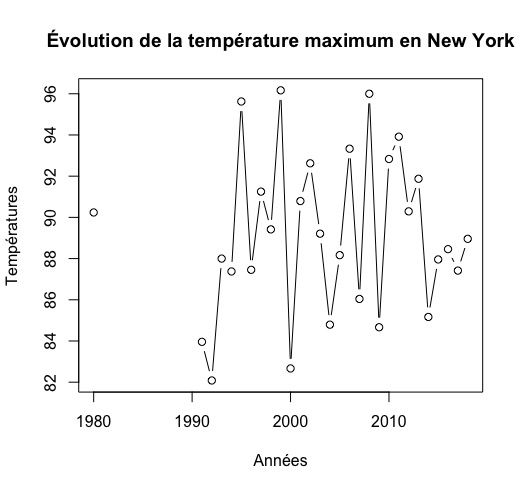
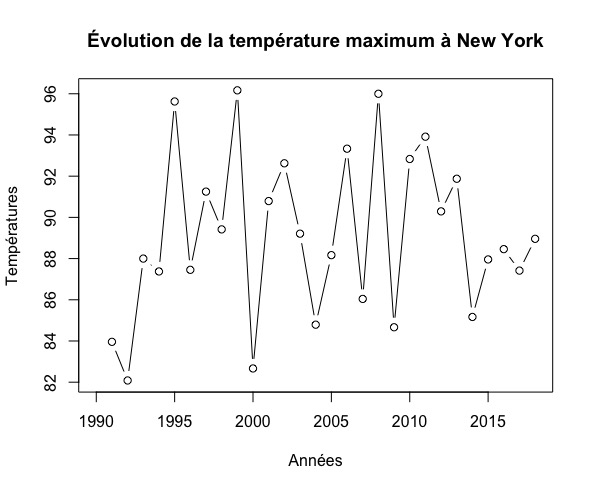
Description Max.html + nouveau Graph

diff --git a/REP/pages/max.html b/REP/pages/max.html
@@ -110,9 +110,9 @@
                     <div class="project-info overflow">
                         <h3>Description</h3>
                         <p>
-                          Lorem Ipsum is simply dummy text of the printing and typesetting industry. Lorem Ipsum has been the industry's standard dummy text ever since the 1500s,
-                          when an unknown printer took a galley of type and scrambled it to make a type specimen book. It has survived not only five centuries, but also the leap
-                          into electronic typesetting, remaining essentially unchanged.
+                          Ici se trouve un graphique montrant l'évolution des températures maximal dans l'État de la californie.
+                          On voit nettement une croissance autour des années 1985 suivies d'une stabilisation. On peut constater une augmentation
+                          de la température maximale dans cet État.
                          </p>
                     </div>
 
@@ -137,9 +137,8 @@
                     <div class="project-info overflow">
                         <h3>Description</h3>
                         <p>
-                          Lorem Ipsum is simply dummy text of the printing and typesetting industry. Lorem Ipsum has been the industry's standard dummy text ever since the 1500s,
-                          when an unknown printer took a galley of type and scrambled it to make a type specimen book. It has survived not only five centuries, but also the leap
-                          into electronic typesetting, remaining essentially unchanged.
+                          Ce graphique met en relation les températures maximales par an. On constate une instabilité des données.
+                          Il est difficile avec cet unique graphique de conclure d'une évolution climatique.
                         </p>
 
                     </div>
@@ -167,9 +166,9 @@
                     <div class="project-info overflow">
                         <h3>Description</h3>
                         <p>
-                          Lorem Ipsum is simply dummy text of the printing and typesetting industry. Lorem Ipsum has been the industry's standard dummy text ever since the 1500s,
-                          when an unknown printer took a galley of type and scrambled it to make a type specimen book. It has survived not only five centuries, but also the leap
-                          into electronic typesetting, remaining essentially unchanged.
+                          Ce graphique met en relation les mêmes informations que les graphiques ci-dessus. Celui du Kansas ne contient que peu
+                          de données. On voit nettement une croissance entre les données autour de 1990 et celle proche de 2015. Ces données exploitables
+                          permettent ainsi de conclure à un réchauffement du climat.
                         </p>
 
                     </div>
@@ -196,9 +195,9 @@
                     <div class="project-info overflow">
                         <h3>Description</h3>
                         <p>
-                          Lorem Ipsum is simply dummy text of the printing and typesetting industry. Lorem Ipsum has been the industry's standard dummy text ever since the 1500s,
-                          when an unknown printer took a galley of type and scrambled it to make a type specimen book. It has survived not only five centuries, but also the leap
-                          into electronic typesetting, remaining essentially unchanged.
+                          Les températures maximales de New York varient beaucoup d'une année à l'autre.
+                          Néanmoins on remarque que les données proches de 1990 étaient aux alentours de 83°F alors qu'autour de 2015
+                          la température se rapproche des 90°F. On peut aussi conclure d'un réchauffement climatique.
                         </p>
                     </div>
                 </div>
@@ -222,9 +221,9 @@
                     <div class="project-info overflow">
                         <h3>Description</h3>
                         <p>
-                          Lorem Ipsum is simply dummy text of the printing and typesetting industry. Lorem Ipsum has been the industry's standard dummy text ever since the 1500s,
-                          when an unknown printer took a galley of type and scrambled it to make a type specimen book. It has survived not only five centuries, but also the leap
-                          into electronic typesetting, remaining essentially unchanged.
+                          Beaucoup de variation sur celui-ci également. Comme pour le graphique précédent, on trouve des valeurs
+                          relativement basse, autour de 82°F alors qu'autour de 2005 la température se stabilise autour de 86°F. 
+                          Un réchauffement du climat semble se manifester.
                         </p>
                     </div>
 

diff --git a/REP/index.html b/REP/index.html
@@ -98,7 +98,6 @@
                                     </div>
                                     <div class="person-info">
                                         <h2>Adrien ZOCCO</h2>
-                                        <p>Consultant</p>
                                     </div>
                                 </div>
                             </div>
@@ -111,7 +110,6 @@
                                     </div>
                                     <div class="person-info">
                                         <h2>Romain PACE</h2>
-                                        <p>Directeur Général</p>
                                     </div>
                                 </div>
                             </div>
@@ -124,7 +122,6 @@
                                     </div>
                                     <div class="person-info">
                                         <h2>David PIMIENTA</h2>
-                                        <p>Chef de Projet</p>
                                     </div>
                                 </div>
                             </div>
@@ -137,7 +134,6 @@
                                     </div>
                                     <div class="person-info">
                                         <h2>Géraldine MUSAT</h2>
-                                        <p>Secrétaire, Analyste &amp; Développeur</p>
                                     </div>
                                 </div>
                             </div>
@@ -160,7 +156,7 @@
                                             Romain PACE : Développement R, Rédaction Rapport, Recherche, Analyse des données, Présentation.
                                         </p>
                                         <p>
-                                            David PIMIENTA : Développement Web &amp; R, Rédaction Rapport.
+                                            David PIMIENTA : Développement Web &amp; R, Rédaction Rapport, Recherche.
                                         </p>
                                         <p>
                                             Géraldine MUSAT : Développement Web &amp; R, Rédaction Rapport, Recherche, Analyse des données.
@@ -185,7 +181,7 @@
   <script type="text/javascript" src="js/lightbox.min.js"></script>
   <script type="text/javascript" src="js/wow.min.js"></script>
   <script type="text/javascript" src="js/main.js"></script>
-  
+
   <script>
     document.getElementById('onpasselacouleur1').onmouseover =  function(){document.getElementById('navbar').style.background = 'transparent'}
   </script>

diff --git a/REP/pages/res.html b/REP/pages/res.html
@@ -98,7 +98,7 @@
         <div class="container">
             <div class="row">
                 <div class="col-sm-6">
-                    <img src="../images/californie.png" class="img-responsive" alt="">
+                    <img src="../images/californie.jpeg" class="img-responsive" alt="">
                 </div>
                 <div class="col-sm-6">
                     <div class="project-name overflow">
@@ -124,7 +124,7 @@
         <div class="container">
             <div class="row">
                 <div class="col-sm-6">
-                    <img src="../images/montana.png" class="img-responsive" alt="">
+                    <img src="../images/montana.jpeg" class="img-responsive" alt="">
                 </div>
                 <div class="col-sm-6">
                     <div class="project-name overflow">
@@ -154,7 +154,7 @@
         <div class="container">
             <div class="row">
                 <div class="col-sm-6">
-                    <img src="../images/kansas.png" class="img-responsive" alt="">
+                    <img src="../images/kansas.jpeg" class="img-responsive" alt="">
                 </div>
                 <div class="col-sm-6">
                     <div class="project-name overflow">
@@ -183,7 +183,7 @@
         <div class="container">
             <div class="row">
                 <div class="col-sm-6">
-                    <img src="../images/newyork.png" class="img-responsive" alt="">
+                    <img src="../images/newyork.jpeg" class="img-responsive" alt="">
                 </div>
                 <div class="col-sm-6">
                     <div class="project-name overflow">
@@ -209,7 +209,7 @@
         <div class="container">
             <div class="row">
                 <div class="col-sm-6">
-                    <img src="../images/floride.png" class="img-responsive" alt="">
+                    <img src="../images/floride.jpeg" class="img-responsive" alt="">
                 </div>
                 <div class="col-sm-6">
                     <div class="project-name overflow">
